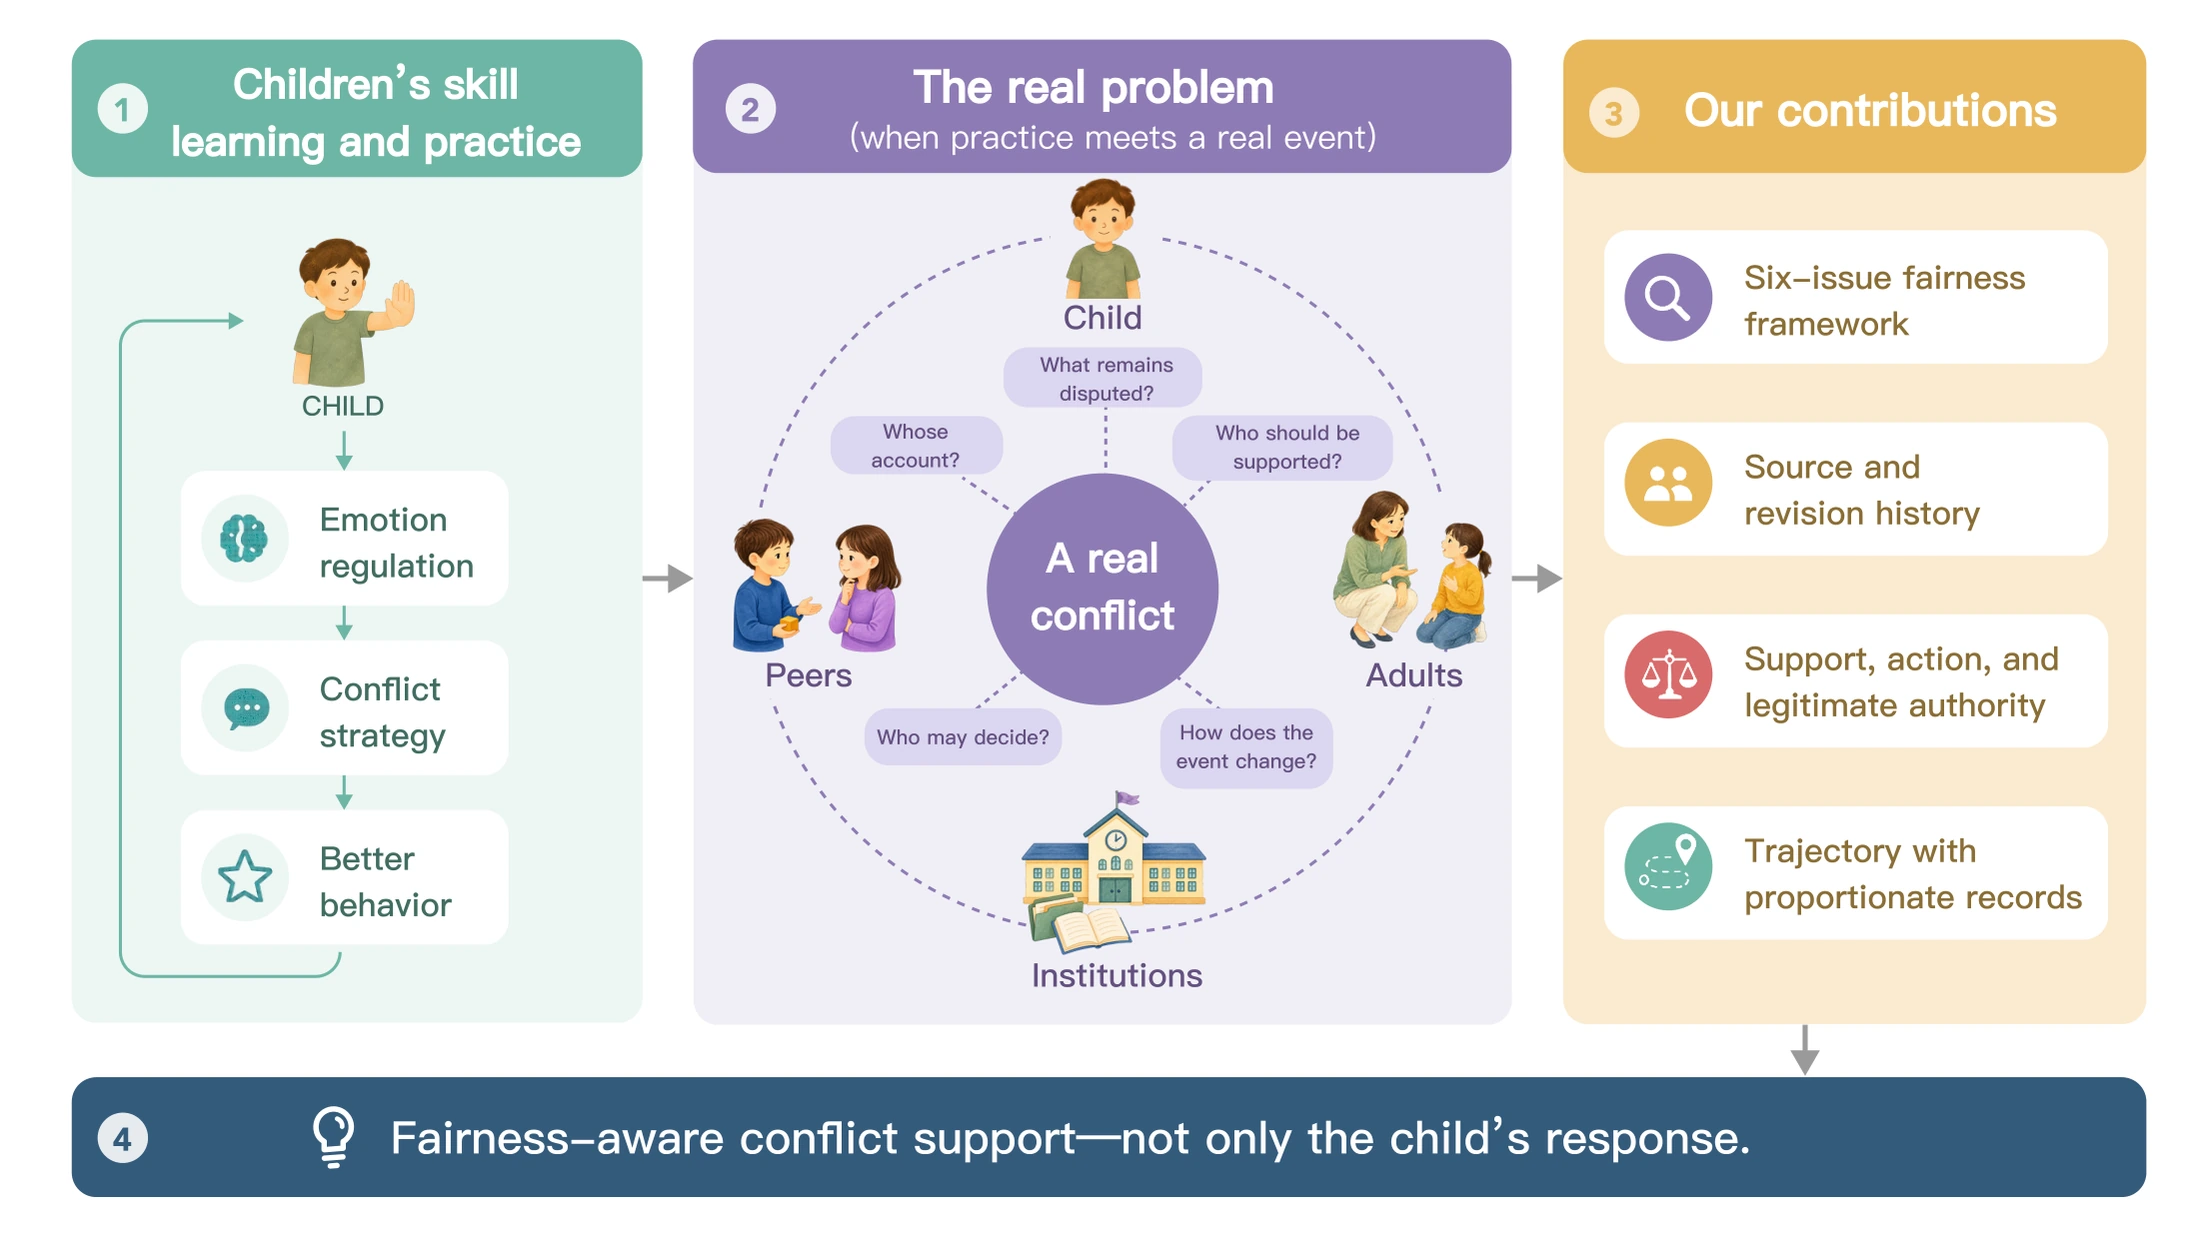
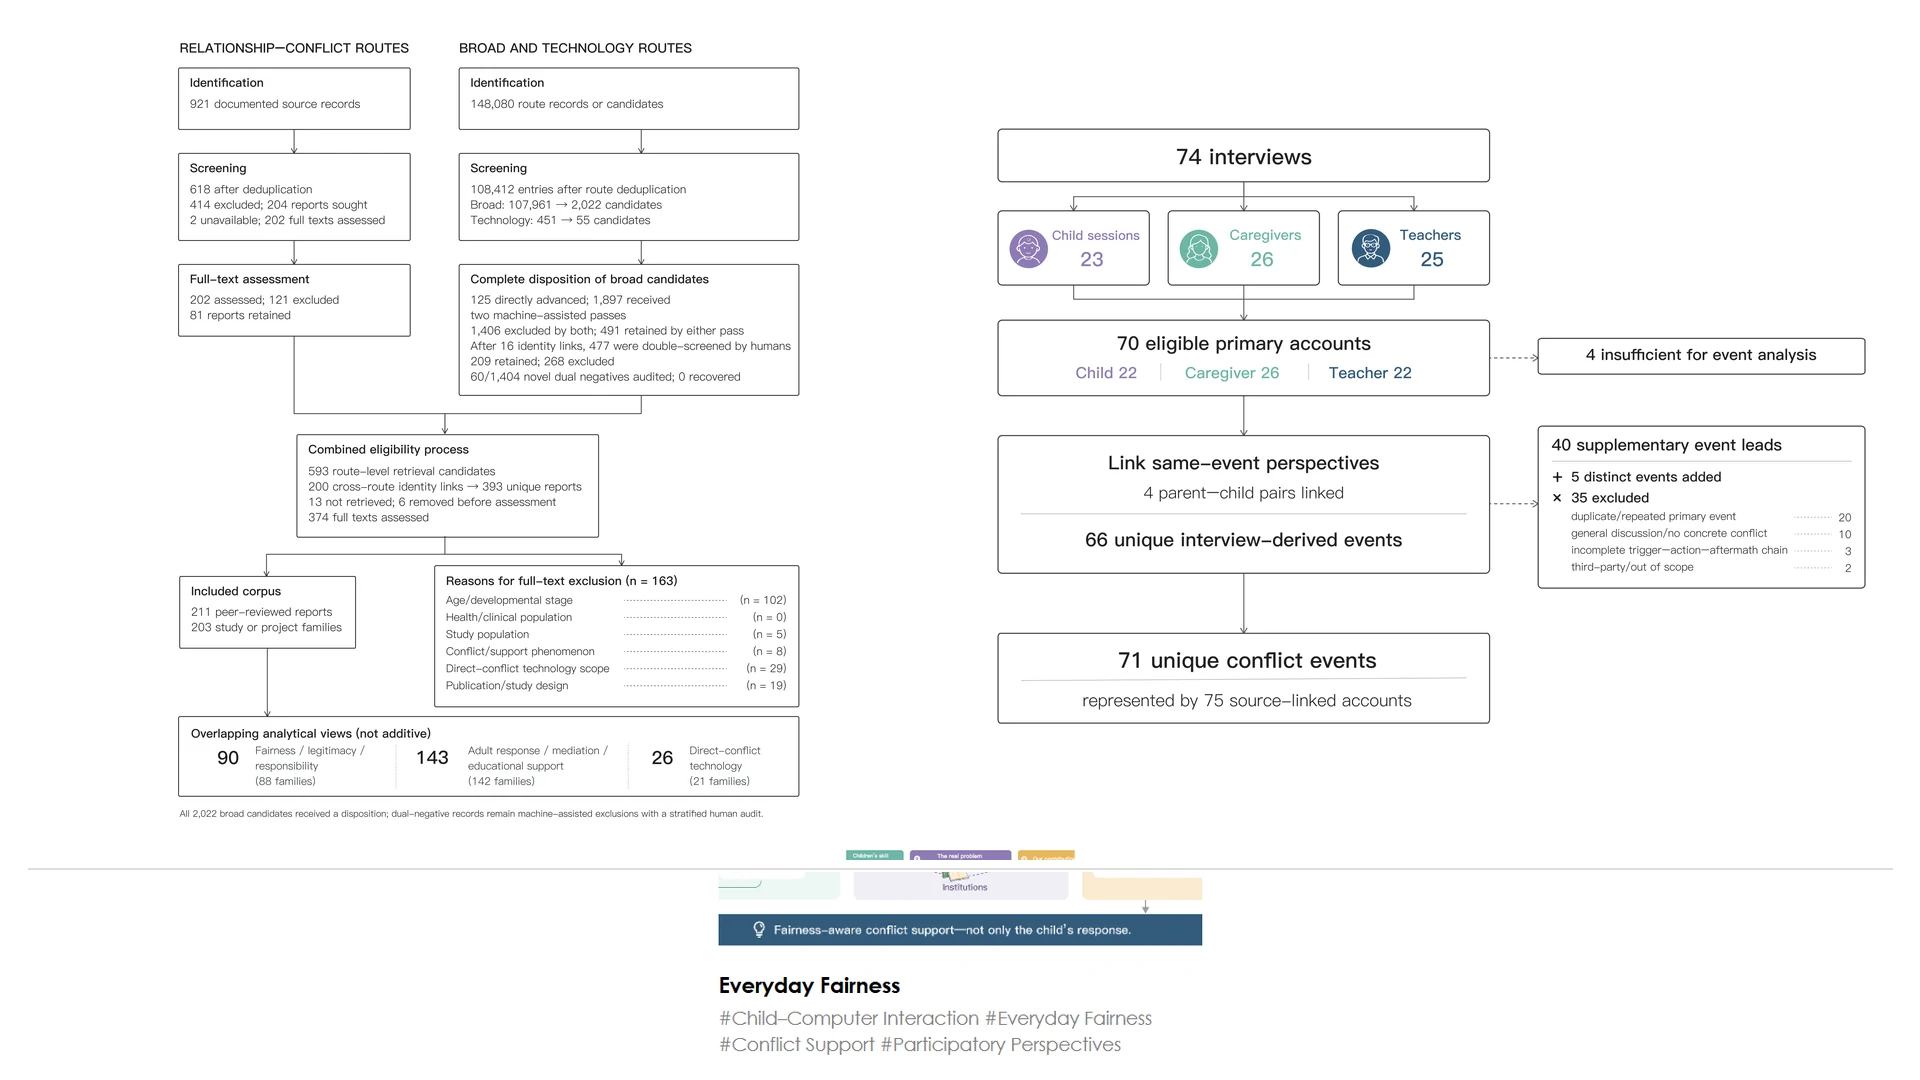
Add Everyday Fairness composite cover from review and interview diagrams.

diff --git a/js/content.js b/js/content.js
@@ -82,8 +82,8 @@ export const projects = [
     titleEn: "Everyday Fairness",
     titleCn: "日常公平：儿童冲突中的多方视角",
     category: "software",
-    cover: "assets/projects/everyday-fairness/cover.webp",
-    images: ["assets/projects/everyday-fairness/cover.webp"],
+    cover: "assets/projects/everyday-fairness/cover-composite.webp",
+    images: ["assets/projects/everyday-fairness/cover-composite.webp"],
     tagsEn: ["Child–Computer Interaction", "Everyday Fairness", "Conflict Support", "Participatory Perspectives"],
     tagsCn: ["儿童与计算机交互", "日常公平", "冲突支持", "多方视角"],
     href: "project.html?slug=everyday-fairness",
@@ -659,7 +659,7 @@ export const publications = [
     authors: [{ name: "Yuxuan Weng", highlight: true }, { name: "et al." }],
     links: [{ label: "Project", href: "project.html?slug=everyday-fairness" }],
     status: "Under review",
-    image: "assets/projects/everyday-fairness/cover.webp",
+    image: "assets/projects/everyday-fairness/cover-composite.webp",
   },
   {
     venues: [{ label: "UbiComp/ISWC 2026 Design Exhibition" }],

diff --git a/js/project.js b/js/project.js
@@ -4,16 +4,16 @@ import {
   nav,
   getProjectBySlug,
   getProjectNeighbors,
-} from "./content.js?v=20260914d";
-import { renderThemeToggle, bindThemeToggle, initTheme } from "./theme.js?v=20260914d";
+} from "./content.js?v=20260914e";
+import { renderThemeToggle, bindThemeToggle, initTheme } from "./theme.js?v=20260914e";
 import {
   getLang,
   renderLangToggle,
   bindLangToggle,
   initLang,
   updateHeaderContent,
-} from "./lang.js?v=20260914d";
-import { initHoverZoom } from "./zoom.js?v=20260914d";
+} from "./lang.js?v=20260914e";
+import { initHoverZoom } from "./zoom.js?v=20260914e";
 
 function renderHeader(activePage) {
   const lang = getLang();

diff --git a/js/app.js b/js/app.js
@@ -6,16 +6,16 @@ import {
   publications,
   about,
   categories,
-} from "./content.js?v=20260914d";
-import { renderThemeToggle, bindThemeToggle, initTheme } from "./theme.js?v=20260914d";
+} from "./content.js?v=20260914e";
+import { renderThemeToggle, bindThemeToggle, initTheme } from "./theme.js?v=20260914e";
 import {
   getLang,
   renderLangToggle,
   bindLangToggle,
   initLang,
   updateHeaderContent,
-} from "./lang.js?v=20260914d";
-import { initHoverZoom } from "./zoom.js?v=20260914d";
+} from "./lang.js?v=20260914e";
+import { initHoverZoom } from "./zoom.js?v=20260914e";
 
 function renderHeader(activePage) {
   const lang = getLang();

diff --git a/js/lang.js b/js/lang.js
@@ -1,8 +1,8 @@
 // Import URLs carry ?v= so a stale module can never pair with a fresh one:
 // Cloudflare edge-caches js for 4h and only the URL distinguishes versions.
 // The token must match across every file or the browser loads two copies.
-import { site, nav } from "./content.js?v=20260914d";
-import { updateThemeToggleLabel } from "./theme.js?v=20260914d";
+import { site, nav } from "./content.js?v=20260914e";
+import { updateThemeToggleLabel } from "./theme.js?v=20260914e";
 
 const LANG_KEY = "portfolio-lang";
 
